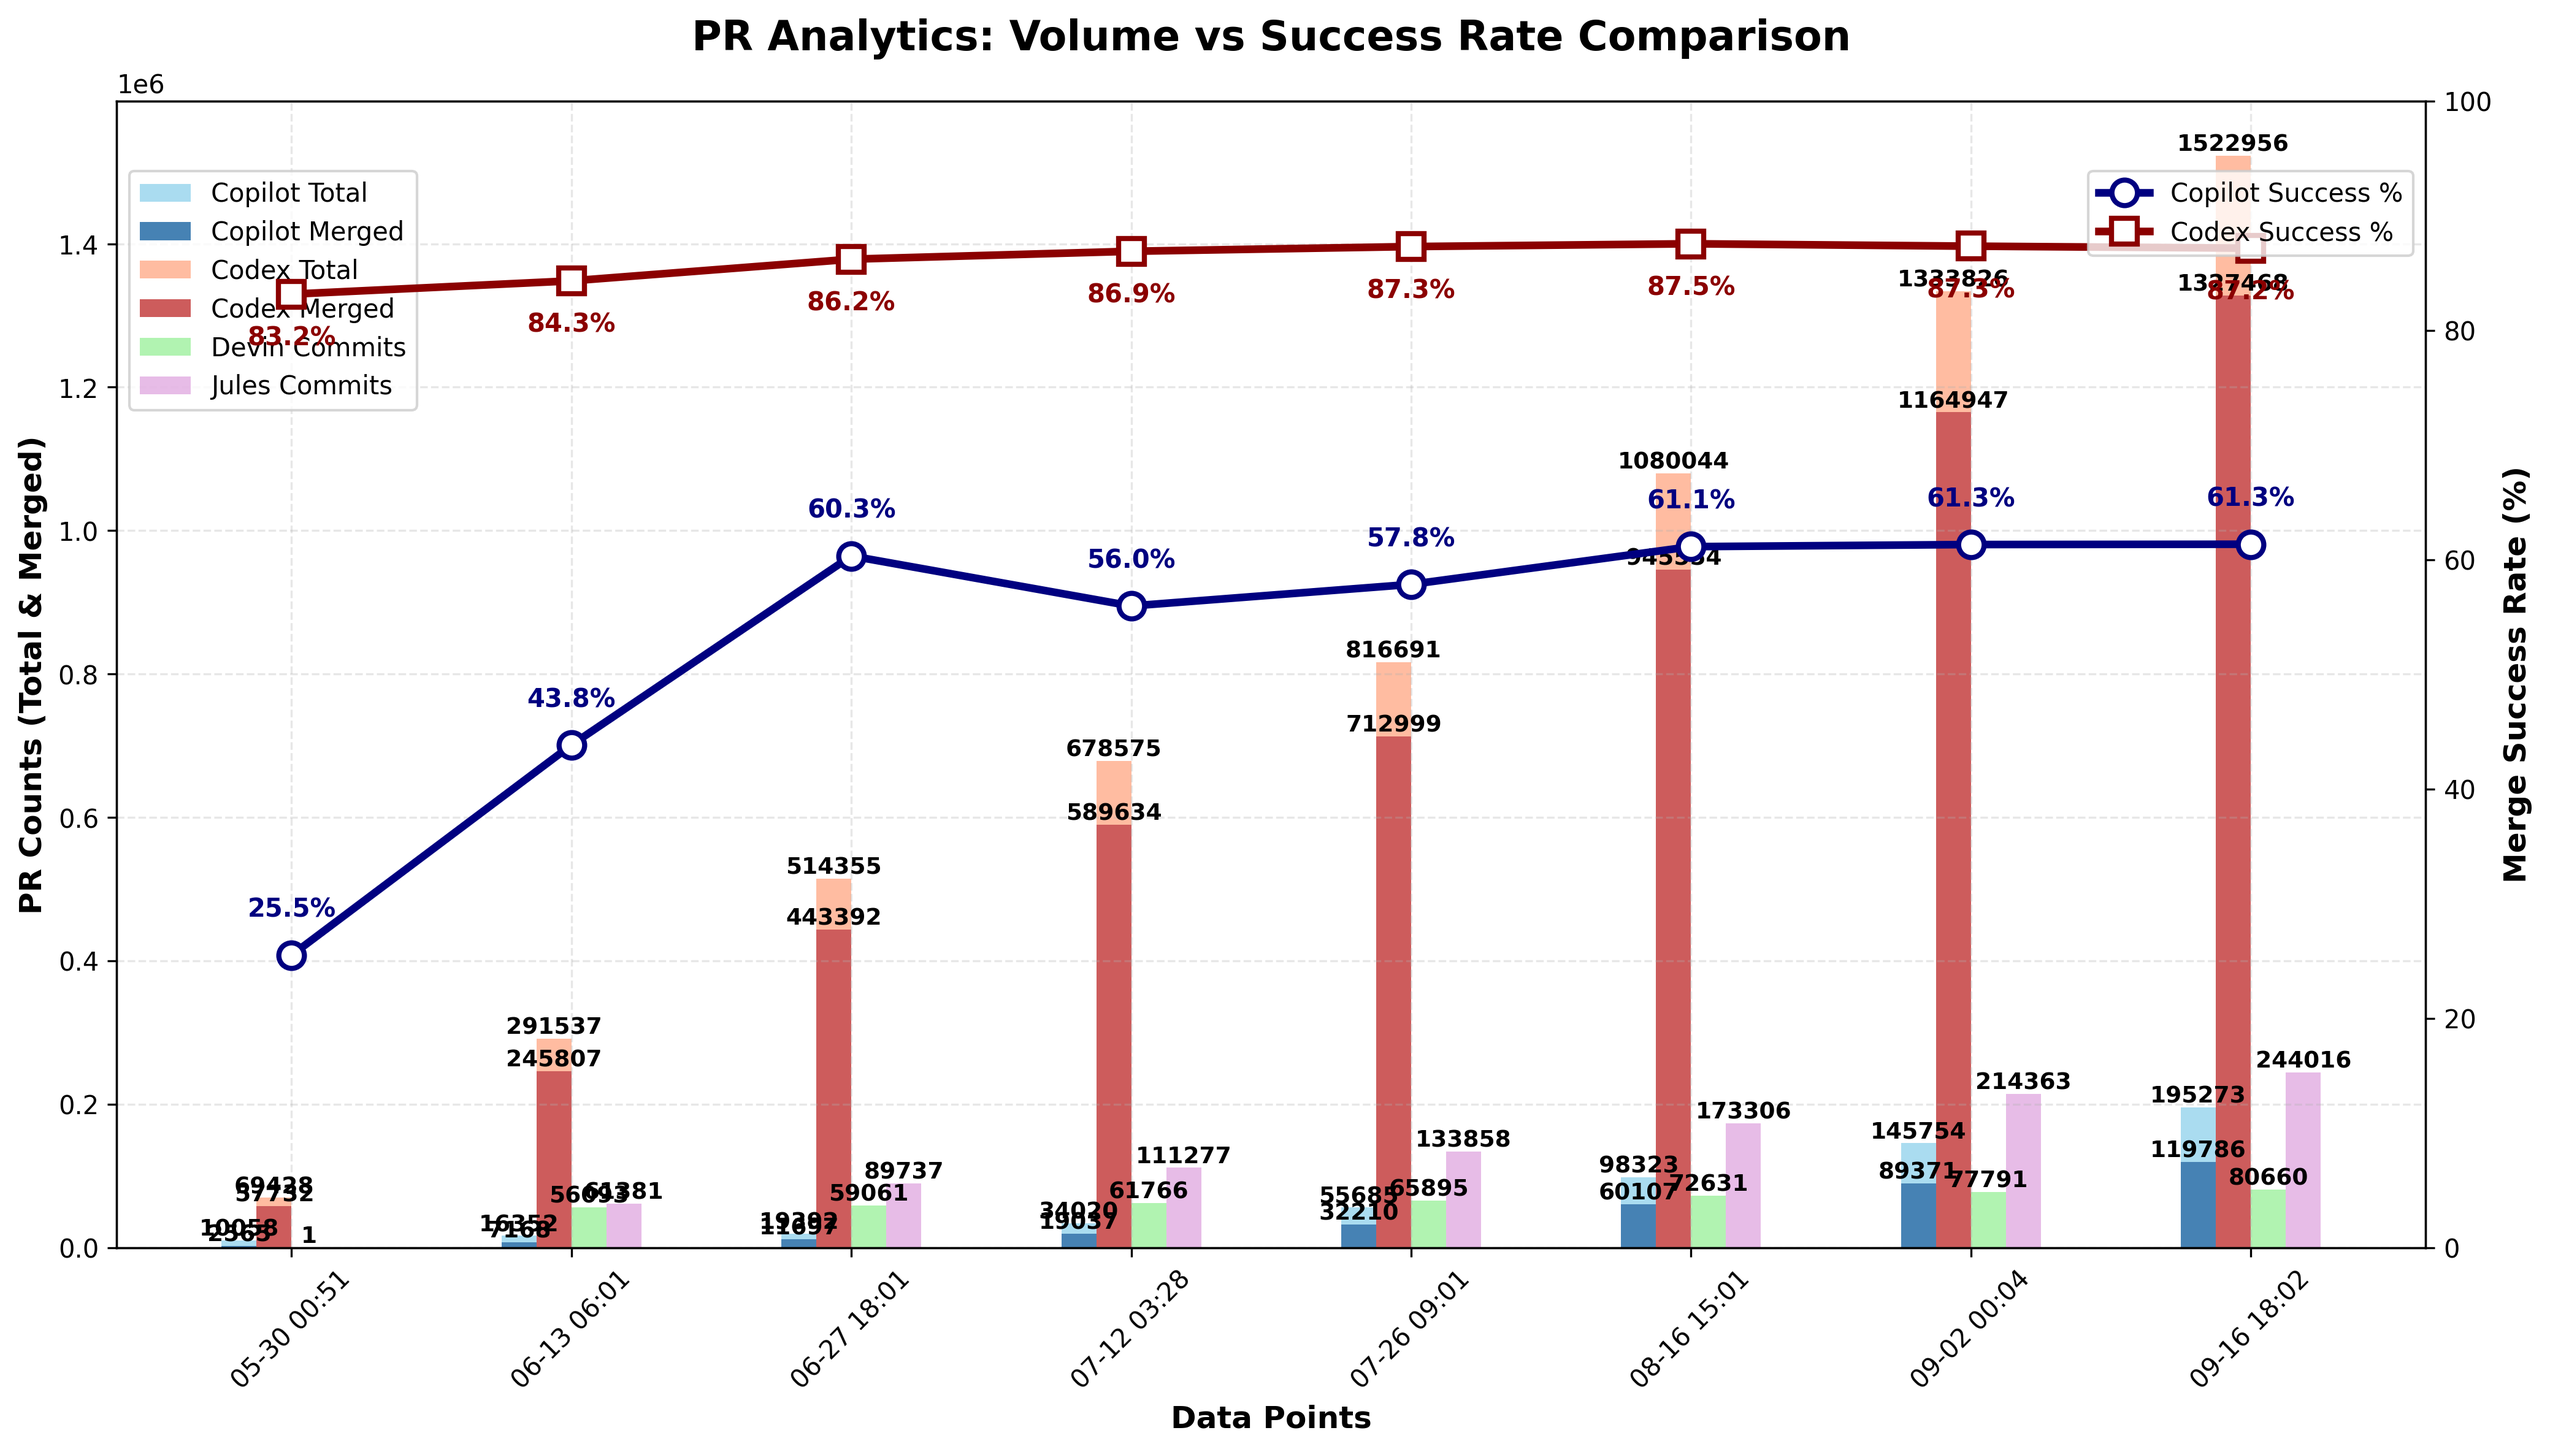
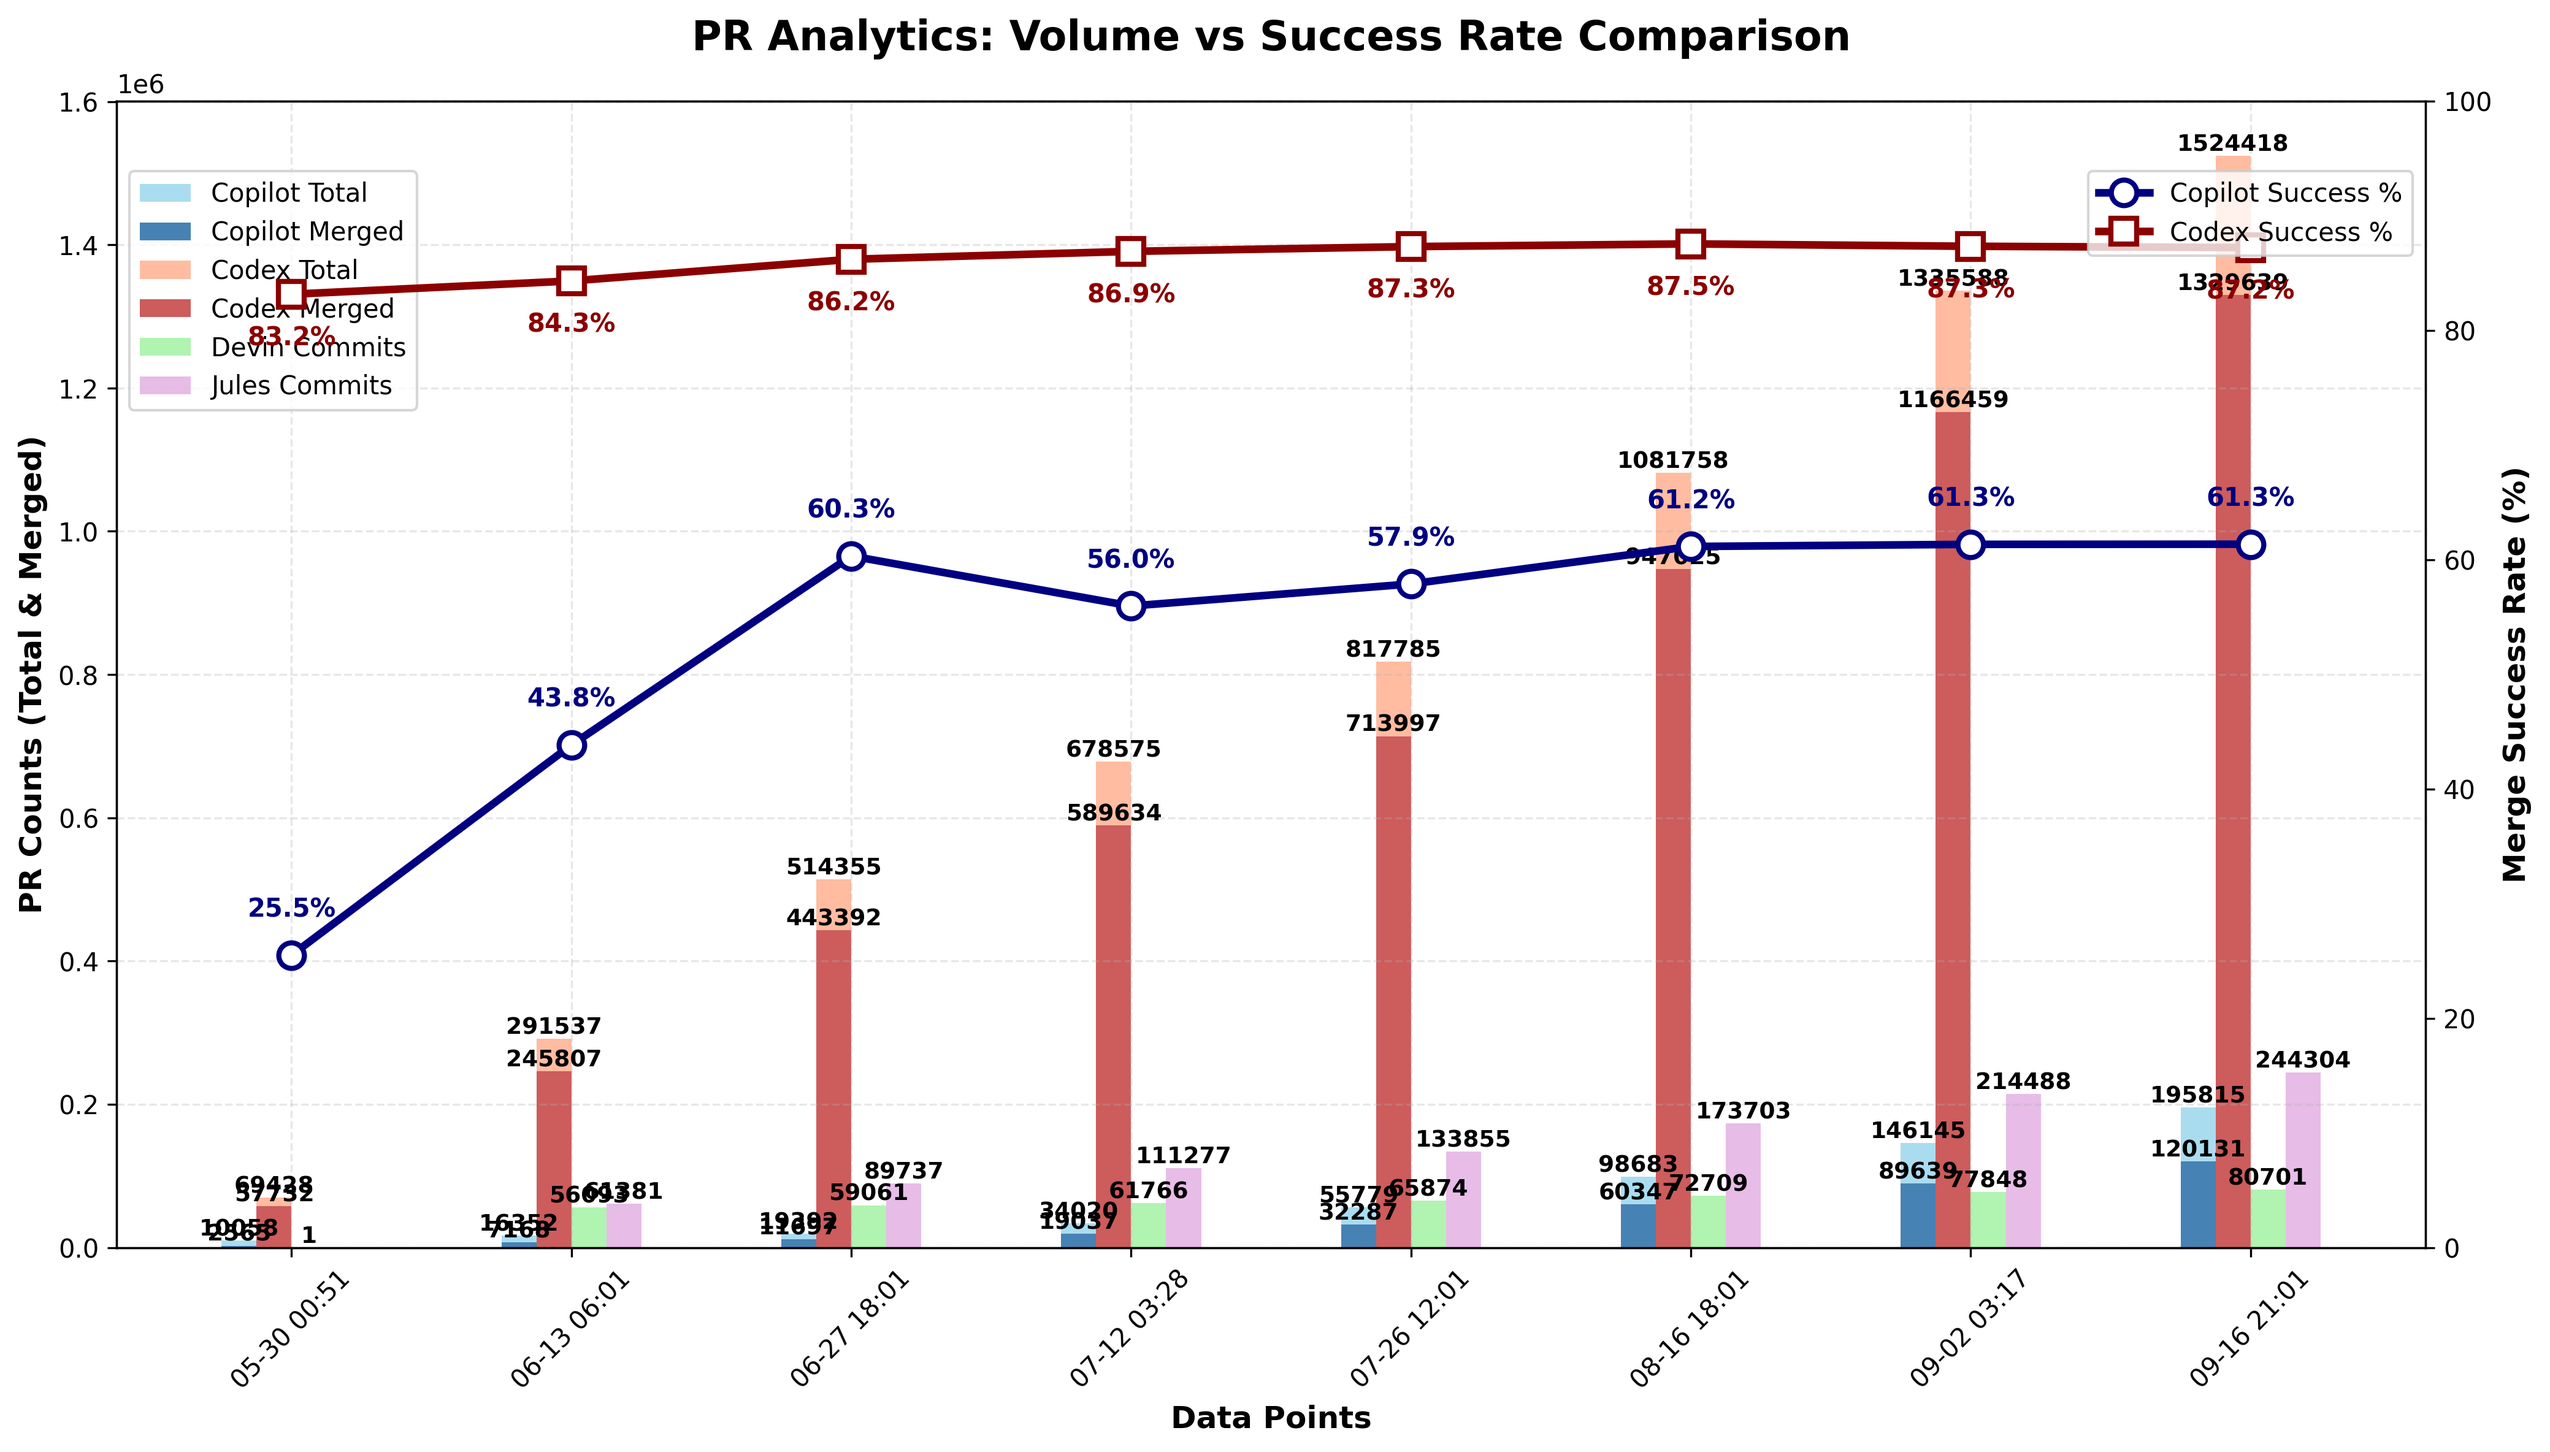
chore: update PR‑approval chart

diff --git a/docs/index.html b/docs/index.html
@@ -851,6 +851,7 @@
                         <td>N/A</td>
                         <td>N/A</td>
                         <td>N/A</td>
+                        <td>N/A</td>
                     </tr>
                     <tr>
                         <td>Codex</td>
@@ -1660,27 +1661,28 @@
                         <td>N/A</td>
                         <td>N/A</td>
                         <td>N/A</td>
+                        <td>N/A</td>
                     </tr>
                 <tr>
                         <td>Devin</td>
                         <td>N/A</td>
                         <td>N/A</td>
                         <td>N/A</td>
-                        <td>80,660</td>
+                        <td>80,701</td>
                     </tr>
                     <tr>
                         <td>Jules</td>
                         <td>N/A</td>
                         <td>N/A</td>
                         <td>N/A</td>
-                        <td>244,016</td>
+                        <td>244,304</td>
                     </tr>
                     </tbody>
             </table>
         </section>
 
         <footer>
-            <p>Last updated: <span id="last-updated">September 16, 2025 18:02 UTC</span></p>
+            <p>Last updated: <span id="last-updated">September 16, 2025 21:01 UTC</span></p>
             <p><a href="https://github.com/aavetis/ai-pr-watcher">View on GitHub</a></p>
         </footer>
     </div>

diff --git a/README.md b/README.md
@@ -19,7 +19,7 @@ Explore the GitHub search queries used:
 
 | Service | Total PRs | Merged PRs | Merge Rate | Total Commits |
 | ------- | --------- | ---------- | ---------- | ------------- |
-| Copilot | 195,273 | 119,786 | 61.34% | N/A           |
-| Codex   | 1,522,956 | 1,327,468 | 87.16% | N/A           |
-| Devin   | N/A       | N/A        | N/A        | 80,660 |
-| Jules   | N/A       | N/A        | N/A        | 244,016 |
+| Copilot | 195,815 | 120,131 | 61.35% | N/A           |
+| Codex   | 1,524,418 | 1,329,639 | 87.22% | N/A           |
+| Devin   | N/A       | N/A        | N/A        | 80,701 |
+| Jules   | N/A       | N/A        | N/A        | 244,304 |
